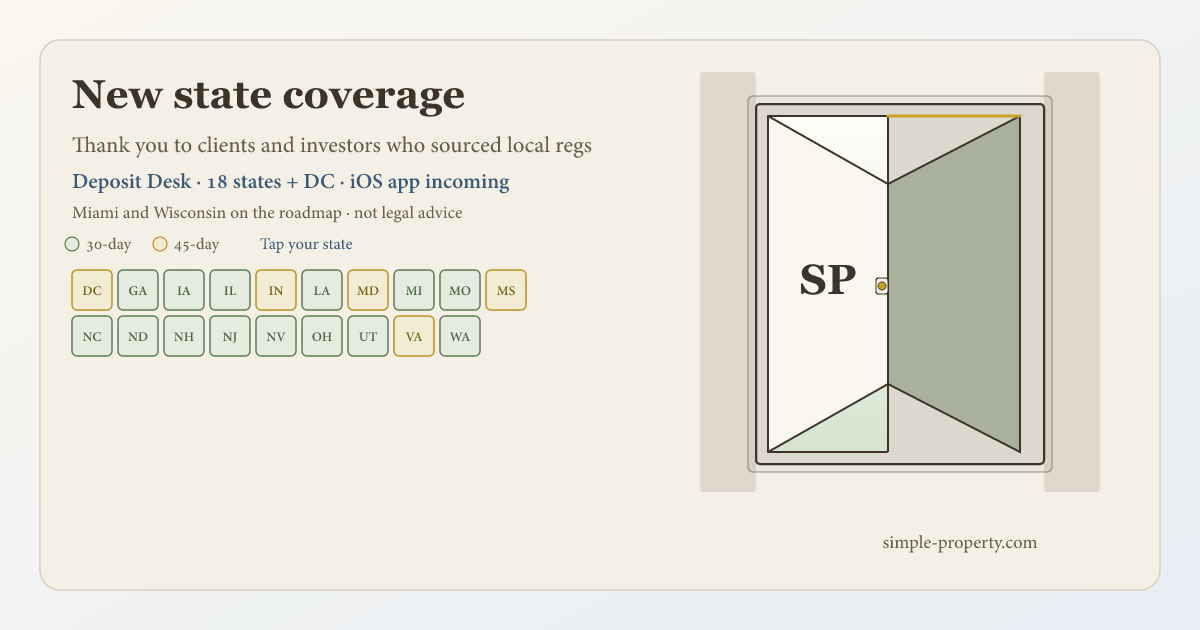
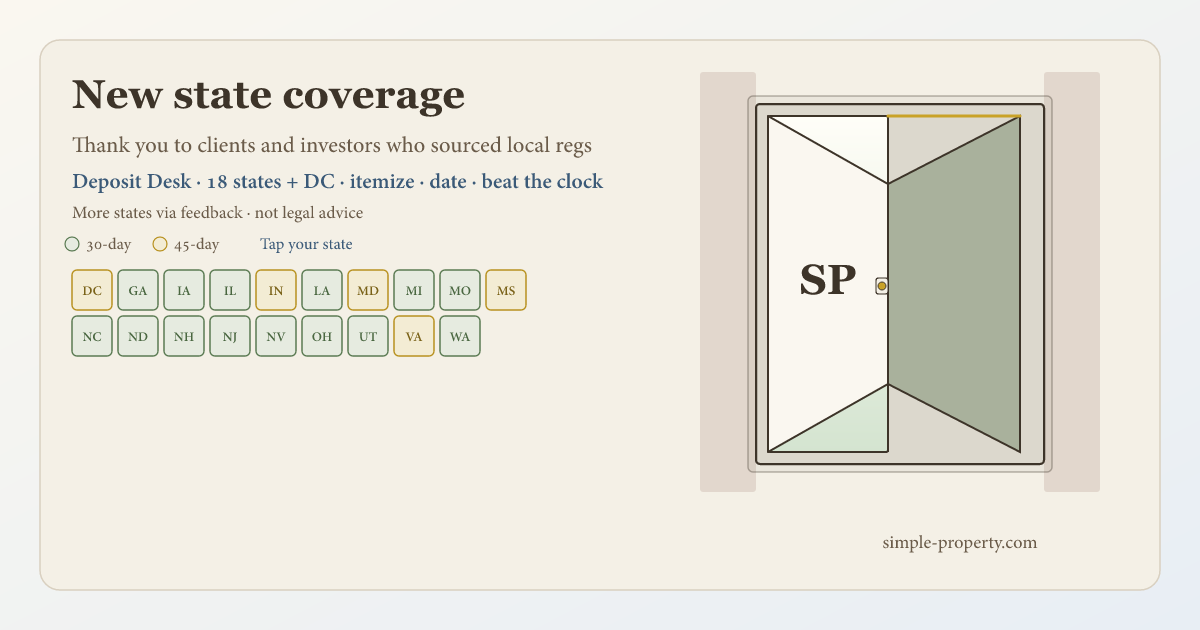
Harden product audits and align customer-facing SEO assets.
OG coverage art drops roadmap tease; gates scan SVGs and SERP-length meta; sitemap and key pages synced for 18 states + DC.

Changed region(s): [[0.0617, 0.3317, 0.4008, 0.3619], [0.2775, 0.2714, 0.5242, 0.3016]]

diff --git a/web/blog/index.html b/web/blog/index.html
@@ -33,7 +33,7 @@
   <link rel="preconnect" href="https://fonts.gstatic.com" crossorigin>
   <link href="https://fonts.googleapis.com/css2?family=Source+Sans+3:ital,wght@0,400;0,600;0,700;1,400&family=Source+Serif+4:ital,opsz,wght@0,8..60,600;0,8..60,700;1,8..60,600&display=swap" rel="stylesheet">
   <link rel="stylesheet" href="/simple-property.css?v=42">
-      <script type="application/ld+json">{"@context":"https://schema.org","@graph":[{"@type":"CollectionPage","name":"Deposit guides · 18 states + DC","url":"https://simple-property.com/blog","description":"State and city deposit guides for small landlords · not legal advice.","isPartOf":{"@type":"WebSite","name":"Simple Property Tools","url":"https://simple-property.com"}},{"@type":"ItemList","numberOfItems":24,"itemListElement":[{"@type":"ListItem","position":1,"url":"https://simple-property.com/blog/washington-operator-deposit-packet-sep-2026","name":"Washington security deposit packet checklist · small landlords"},{"@type":"ListItem","position":2,"url":"https://simple-property.com/blog/virginia-operator-deposit-packet-sep-2026","name":"Virginia security deposit packet checklist · small landlords"},{"@type":"ListItem","position":3,"url":"https://simple-property.com/blog/utah-operator-deposit-packet-sep-2026","name":"Utah security deposit packet checklist · small landlords"},{"@type":"ListItem","position":4,"url":"https://simple-property.com/blog/ohio-operator-deposit-packet-sep-2026","name":"Ohio security deposit packet checklist · small landlords"},{"@type":"ListItem","position":5,"url":"https://simple-property.com/blog/nevada-operator-deposit-packet-sep-2026","name":"Nevada security deposit packet checklist · small landlords"},{"@type":"ListItem","position":6,"url":"https://simple-property.com/blog/new-jersey-operator-deposit-packet-sep-2026","name":"New Jersey security deposit packet checklist · small landlords"},{"@type":"ListItem","position":7,"url":"https://simple-property.com/blog/new-hampshire-operator-deposit-packet-sep-2026","name":"New Hampshire security deposit packet checklist · small landlords"},{"@type":"ListItem","position":8,"url":"https://simple-property.com/blog/north-dakota-operator-deposit-packet-sep-2026","name":"North Dakota security deposit packet checklist · small landlords"},{"@type":"ListItem","position":9,"url":"https://simple-property.com/blog/north-carolina-operator-deposit-packet-sep-2026","name":"North Carolina security deposit packet checklist · small landlords"},{"@type":"ListItem","position":10,"url":"https://simple-property.com/blog/mississippi-operator-deposit-packet-sep-2026","name":"Mississippi security deposit packet checklist · small landlords"},{"@type":"ListItem","position":11,"url":"https://simple-property.com/blog/missouri-operator-deposit-packet-sep-2026","name":"Missouri security deposit packet checklist · small landlords"},{"@type":"ListItem","position":12,"url":"https://simple-property.com/blog/michigan-operator-deposit-packet-sep-2026","name":"Michigan security deposit packet checklist · small landlords"},{"@type":"ListItem","position":13,"url":"https://simple-property.com/blog/maryland-operator-deposit-packet-sep-2026","name":"Maryland security deposit packet checklist · small landlords"},{"@type":"ListItem","position":14,"url":"https://simple-property.com/blog/louisiana-operator-deposit-packet-sep-2026","name":"Louisiana security deposit packet checklist · small landlords"},{"@type":"ListItem","position":15,"url":"https://simple-property.com/blog/indiana-operator-deposit-packet-sep-2026","name":"Indiana security deposit packet checklist · small landlords"},{"@type":"ListItem","position":16,"url":"https://simple-property.com/blog/illinois-operator-deposit-packet-sep-2026","name":"Illinois security deposit packet checklist · small landlords"},{"@type":"ListItem","position":17,"url":"https://simple-property.com/blog/iowa-operator-deposit-packet-sep-2026","name":"Iowa security deposit packet checklist · small landlords"},{"@type":"ListItem","position":18,"url":"https://simple-property.com/blog/georgia-operator-deposit-packet-sep-2026","name":"Georgia security deposit packet checklist · small landlords"},{"@type":"ListItem","position":19,"url":"https://simple-property.com/blog/dc-operator-deposit-packet-sep-2026","name":"District of Columbia security deposit packet checklist · small landlords"},{"@type":"ListItem","position":20,"url":"https://simple-property.com/blog/deposit-documentation-tax-deduction-landlords","name":"Tax write-off bucket for deposit documentation tools · landlords"},{"@type":"ListItem","position":21,"url":"https://simple-property.com/blog/deposit-desk-new-states-thanks-sep-2026","name":"New state coverage · thank you to the operators who sourced local regs"},{"@type":"ListItem","position":22,"url":"https://simple-property.com/blog/missouri-stl-kc-deposit-clock-two-market","name":"Missouri STL and KC deposit clocks on the same spreadsheet"},{"@type":"ListItem","position":23,"url":"https://simple-property.com/blog/iowa-rural-turnover-surrender-date-gap","name":"Iowa rural turnover and the missing surrender date"},{"@type":"ListItem","position":24,"url":"https://simple-property.com/blog/michigan-detroit-normal-wear-deposit-fight","name":"Michigan deposit fight when normal wear is charged"}]}]}</script>
+        <script type="application/ld+json">{"@context":"https://schema.org","@graph":[{"@type":"CollectionPage","name":"Deposit guides · 18 states + DC","url":"https://simple-property.com/blog","description":"State and city deposit guides for small landlords · not legal advice.","isPartOf":{"@type":"WebSite","name":"Simple Property Tools","url":"https://simple-property.com"}},{"@type":"ItemList","numberOfItems":24,"itemListElement":[{"@type":"ListItem","position":1,"url":"https://simple-property.com/blog/washington-operator-deposit-packet-sep-2026","name":"Washington security deposit packet checklist · small landlords"},{"@type":"ListItem","position":2,"url":"https://simple-property.com/blog/virginia-operator-deposit-packet-sep-2026","name":"Virginia security deposit packet checklist · small landlords"},{"@type":"ListItem","position":3,"url":"https://simple-property.com/blog/utah-operator-deposit-packet-sep-2026","name":"Utah security deposit packet checklist · small landlords"},{"@type":"ListItem","position":4,"url":"https://simple-property.com/blog/ohio-operator-deposit-packet-sep-2026","name":"Ohio security deposit packet checklist · small landlords"},{"@type":"ListItem","position":5,"url":"https://simple-property.com/blog/nevada-operator-deposit-packet-sep-2026","name":"Nevada security deposit packet checklist · small landlords"},{"@type":"ListItem","position":6,"url":"https://simple-property.com/blog/new-jersey-operator-deposit-packet-sep-2026","name":"New Jersey security deposit packet checklist · small landlords"},{"@type":"ListItem","position":7,"url":"https://simple-property.com/blog/new-hampshire-operator-deposit-packet-sep-2026","name":"New Hampshire security deposit packet checklist · small landlords"},{"@type":"ListItem","position":8,"url":"https://simple-property.com/blog/north-dakota-operator-deposit-packet-sep-2026","name":"North Dakota security deposit packet checklist · small landlords"},{"@type":"ListItem","position":9,"url":"https://simple-property.com/blog/north-carolina-operator-deposit-packet-sep-2026","name":"North Carolina security deposit packet checklist · small landlords"},{"@type":"ListItem","position":10,"url":"https://simple-property.com/blog/mississippi-operator-deposit-packet-sep-2026","name":"Mississippi security deposit packet checklist · small landlords"},{"@type":"ListItem","position":11,"url":"https://simple-property.com/blog/missouri-operator-deposit-packet-sep-2026","name":"Missouri security deposit packet checklist · small landlords"},{"@type":"ListItem","position":12,"url":"https://simple-property.com/blog/michigan-operator-deposit-packet-sep-2026","name":"Michigan security deposit packet checklist · small landlords"},{"@type":"ListItem","position":13,"url":"https://simple-property.com/blog/maryland-operator-deposit-packet-sep-2026","name":"Maryland security deposit packet checklist · small landlords"},{"@type":"ListItem","position":14,"url":"https://simple-property.com/blog/louisiana-operator-deposit-packet-sep-2026","name":"Louisiana security deposit packet checklist · small landlords"},{"@type":"ListItem","position":15,"url":"https://simple-property.com/blog/indiana-operator-deposit-packet-sep-2026","name":"Indiana security deposit packet checklist · small landlords"},{"@type":"ListItem","position":16,"url":"https://simple-property.com/blog/illinois-operator-deposit-packet-sep-2026","name":"Illinois security deposit packet checklist · small landlords"},{"@type":"ListItem","position":17,"url":"https://simple-property.com/blog/iowa-operator-deposit-packet-sep-2026","name":"Iowa security deposit packet checklist · small landlords"},{"@type":"ListItem","position":18,"url":"https://simple-property.com/blog/georgia-operator-deposit-packet-sep-2026","name":"Georgia security deposit packet checklist · small landlords"},{"@type":"ListItem","position":19,"url":"https://simple-property.com/blog/dc-operator-deposit-packet-sep-2026","name":"District of Columbia security deposit packet checklist · small landlords"},{"@type":"ListItem","position":20,"url":"https://simple-property.com/blog/deposit-documentation-tax-deduction-landlords","name":"Tax write-off bucket for deposit documentation tools · landlords"},{"@type":"ListItem","position":21,"url":"https://simple-property.com/blog/deposit-desk-new-states-thanks-sep-2026","name":"New state coverage · thank you to the operators who sourced local regs"},{"@type":"ListItem","position":22,"url":"https://simple-property.com/blog/missouri-stl-kc-deposit-clock-two-market","name":"Missouri STL and KC deposit clocks on the same spreadsheet"},{"@type":"ListItem","position":23,"url":"https://simple-property.com/blog/iowa-rural-turnover-surrender-date-gap","name":"Iowa rural turnover and the missing surrender date"},{"@type":"ListItem","position":24,"url":"https://simple-property.com/blog/michigan-detroit-normal-wear-deposit-fight","name":"Michigan deposit fight when normal wear is charged"}]}]}</script>
 </head>
 <body>
   <div class="spt-atmosphere" aria-hidden="true">

diff --git a/web/launch-stack.html b/web/launch-stack.html
@@ -3,16 +3,16 @@
 <head>
   <meta charset="UTF-8">
   <meta name="viewport" content="width=device-width, initial-scale=1.0, viewport-fit=cover">
-  <title>Landlord launch stack · tools by door count · Illinois</title>
-  <meta name="description" content="What to set up at 1–10, 10–20, and 20–40 doors: deposit compliance, rent ledger, PM light, automation. Small landlords · Chicago HQ. Not legal advice.">
+  <title>Landlord tools by door count · deposit compliance first</title>
+  <meta name="description" content="Set up deposit compliance at 1–10 doors, ledger and light PM at 10–20, automation at 20–40. 18 states + DC · Chicago HQ. Not legal advice.">
   <!-- spt-social -->
   <meta name="robots" content="index,follow">
   <link rel="canonical" href="https://simple-property.com/launch-stack">
   <meta property="og:type" content="website">
   <meta property="og:site_name" content="Simple Property Tools">
   <meta property="og:locale" content="en_US">
-  <meta property="og:title" content="Launch stack · landlord tools by door count">
-  <meta property="og:description" content="What to set up at 1–10, 10–20, and 20–40 doors: deposit compliance first. 18 states + DC · not legal advice.">
+  <meta property="og:title" content="Landlord tools by door count">
+  <meta property="og:description" content="Set up deposit compliance at 1–10 doors · ledger at 10–20 · automation at 20–40. 18 states + DC · not legal advice.">
   <meta property="og:url" content="https://simple-property.com/launch-stack">
   <meta property="og:image" content="https://simple-property.com/og/spt-share-door.png?v=20260923b">
   <meta property="og:image:secure_url" content="https://simple-property.com/og/spt-share-door.png?v=20260923b">
@@ -21,8 +21,8 @@
   <meta property="og:image:height" content="630">
   <meta property="og:image:alt" content="Simple Property Tools Deposit Desk · coverage color bar · 18 states + DC deposit packets">
   <meta name="twitter:card" content="summary_large_image">
-  <meta name="twitter:title" content="Launch stack · landlord tools by door count">
-  <meta name="twitter:description" content="What to set up at 1–10, 10–20, and 20–40 doors: deposit compliance first. 18 states + DC · not legal advice.">
+  <meta name="twitter:title" content="Landlord tools by door count">
+  <meta name="twitter:description" content="Set up deposit compliance at 1–10 doors · ledger at 10–20 · automation at 20–40. 18 states + DC · not legal advice.">
   <meta name="twitter:image" content="https://simple-property.com/og/spt-share-door.png?v=20260923b">
   <meta name="twitter:image:alt" content="Simple Property Tools Deposit Desk · coverage color bar · 18 states + DC deposit packets">
   <!-- /spt-social -->
@@ -34,8 +34,8 @@
   {
     "@context": "https://schema.org",
     "@type": "WebPage",
-    "name": "Landlord launch stack by door count",
-    "description": "Tool tiers for Illinois small landlords from 1–10 through 20–40 doors.",
+    "name": "Landlord tools by door count",
+    "description": "Deposit compliance and operator tools for small landlords from 1–10 through 20–40 doors · 18 states + DC.",
     "publisher": { "@type": "Organization", "name": "Simple Property Tools" }
   }
   </script>
@@ -137,7 +137,8 @@
         <li><strong>10–40 doors:</strong> many teams still use a focused IL packet tool beside PM software.</li>
       </ul>
       <p><a class="btn btn-primary" href="/app">Start packet</a> <a class="btn btn-secondary" href="/blog/landlord-tools-by-door-count">Long-form guide</a></p>
-      <p class="disclaimer">Records only  ·  not legal advice. Confirm IL rules with counsel.</p>
+      <p class="field-hint">Examples use Illinois statutes where noted · Deposit Desk covers <strong>18 states + DC</strong> in the wizard.</p>
+      <p class="disclaimer">Records only · not legal advice. Confirm rules with counsel.</p>
     </main>
 
     <footer class="site-footer">

diff --git a/web/feedback.html b/web/feedback.html
@@ -4,7 +4,7 @@
   <meta charset="UTF-8">
   <meta name="viewport" content="width=device-width, initial-scale=1.0, viewport-fit=cover">
   <title>Suggest rulesets and improvements · Deposit Desk feedback</title>
-  <meta name="description" content="Tell us what to add: new state rulesets, wizard fields, guides, or product fixes. 18 states + DC · founded in Chicago · not legal advice.">
+  <meta name="description" content="Suggest state rules, wizard fields, or guides for Deposit Desk. 18 states + DC · Chicago HQ · not legal advice.">
   <!-- spt-social -->
   <meta name="robots" content="index,follow">
   <link rel="canonical" href="https://simple-property.com/feedback">
@@ -12,7 +12,7 @@
   <meta property="og:site_name" content="Simple Property Tools">
   <meta property="og:locale" content="en_US">
   <meta property="og:title" content="Suggest rulesets · Deposit Desk feedback">
-  <meta property="og:description" content="Tell us what to add: state rules, wizard fields, or guides. 18 states + DC today · founded in Chicago · not legal advice.">
+  <meta property="og:description" content="Suggest state rules, wizard fields, or guides. 18 states + DC · Chicago HQ · not legal advice.">
   <meta property="og:url" content="https://simple-property.com/feedback">
   <meta property="og:image" content="https://simple-property.com/og/spt-share-door.png?v=20260923b">
   <meta property="og:image:secure_url" content="https://simple-property.com/og/spt-share-door.png?v=20260923b">
@@ -22,7 +22,7 @@
   <meta property="og:image:alt" content="Simple Property Tools Deposit Desk · coverage color bar · 18 states + DC deposit packets">
   <meta name="twitter:card" content="summary_large_image">
   <meta name="twitter:title" content="Suggest rulesets · Deposit Desk feedback">
-  <meta name="twitter:description" content="Tell us what to add: state rules, wizard fields, or guides. 18 states + DC today · founded in Chicago · not legal advice.">
+  <meta name="twitter:description" content="Suggest state rules, wizard fields, or guides. 18 states + DC · Chicago HQ · not legal advice.">
   <meta name="twitter:image" content="https://simple-property.com/og/spt-share-door.png?v=20260923b">
   <meta name="twitter:image:alt" content="Simple Property Tools Deposit Desk · coverage color bar · 18 states + DC deposit packets">
   <!-- /spt-social -->

diff --git a/web/app.html b/web/app.html
@@ -30,7 +30,7 @@
   <link rel="apple-touch-icon" href="/favicon.svg">
   <link href="https://fonts.googleapis.com/css2?family=Source+Sans+3:ital,wght@0,400;0,600;0,700;1,400&family=Source+Serif+4:ital,opsz,wght@0,8..60,600;0,8..60,700;1,8..60,600&display=swap" rel="stylesheet">
   <link rel="stylesheet" href="/simple-property.css?v=42">
-        <script type="application/ld+json">{"@context":"https://schema.org","@type":"WebApplication","name":"Deposit Desk","applicationCategory":"BusinessApplication","operatingSystem":"Web","url":"https://simple-property.com/app","offers":{"@type":"Offer","price":"0","priceCurrency":"USD","description":"Free draft wizard"}}</script>
+          <script type="application/ld+json">{"@context":"https://schema.org","@type":"WebApplication","name":"Deposit Desk","applicationCategory":"BusinessApplication","operatingSystem":"Web","url":"https://simple-property.com/app","offers":{"@type":"Offer","price":"0","priceCurrency":"USD","description":"Free draft wizard"}}</script>
 </head>
 <body>
   <div class="spt-atmosphere" aria-hidden="true">

diff --git a/web/index.html b/web/index.html
@@ -4,7 +4,7 @@
   <meta charset="UTF-8">
   <meta name="viewport" content="width=device-width, initial-scale=1.0, viewport-fit=cover">
   <title>Security deposit return · 18 states + DC · Deposit Desk</title>
-  <meta name="description" content="Return or itemize on time after surrender. Move-in proof, line-item withholds, deadline math. Free draft · $29/$49 per turn · Pro. 18 states + DC. Not legal advice.">
+  <meta name="description" content="Return or itemize on time after surrender. Move-in proof, line-item withholds, deadline math. Free draft · $29/$49 · Pro. 18 states + DC. Not legal advice.">
   <!-- spt-social -->
   <meta name="robots" content="index,follow">
   <link rel="canonical" href="https://simple-property.com/">

diff --git a/web/blog/chicago-heat-season-landlord-reminder.html b/web/blog/chicago-heat-season-landlord-reminder.html
@@ -72,7 +72,7 @@
     </header>
     <main id="main" class="prose">
 <h1>Chicago heat season reminder</h1>
-      <p><span class="badge">Law watch</span> Published September 2026 · review each fall.</p>
+      <p><span class="badge">Law watch</span> Review each fall · Chicago heat season.</p>
       <p>Chicago operators face <strong>heat season</strong> rules that do not exist the same way in every suburb. Before tenants call 311, test boilers, document service dates, and log no-heat tickets with timestamps.</p>
       <ul class="bullet-tight">
         <li>Schedule HVAC service before the first cold snap.</li>
